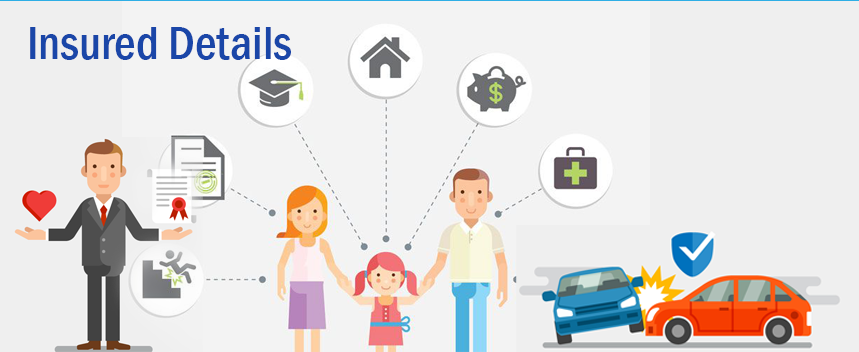
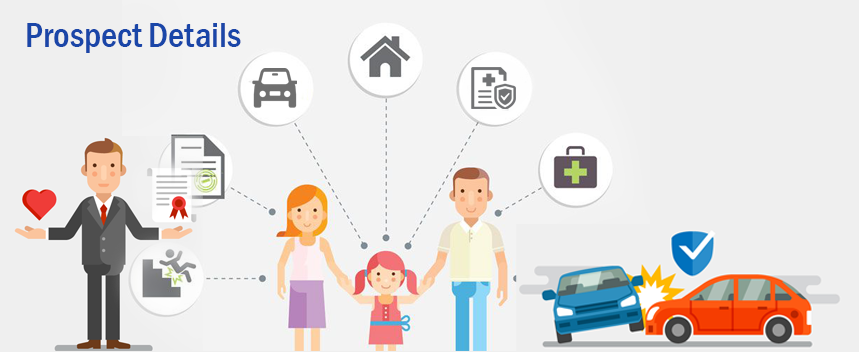
prefill and consemtic changes

diff --git a/src/app/component/landing/landing.component.html b/src/app/component/landing/landing.component.html
@@ -159,7 +159,10 @@
 
 
     <h1>Welcome to BlockSure</h1>
-    <h2>Your ONE-Stop shop for all your Insurance needs</h2>
+    <br/>
+    <br/>
+    <br/>
+    <!-- <h2>Your ONE-Stop shop for all your Insurance needs</h2> -->
     <!-- <h2>A secured blockchain based solution to ease client on-boarding <br>and keep track of the Insurance policies, payment and claim details<br> of an Insured across multiple Insurers</h2> -->
     <!-- <a href="#about" class="btn-get-started scrollto">Get Started</a> -->
   </div>
@@ -246,8 +249,8 @@
   <section id="termLife" class="doctors" *ngIf="basicInfoCaptured">
     <div class="container">
       <div class="section-title">
-        <h2>Multiple Insurers</h2>
-        <p>Insured applies for term life Insurance from below insurer</p>
+        <h2>Best Offers For You</h2>
+        <!-- <p>Insured applies for term life Insurance from below insurer</p> -->
       </div>
 
       <!--card 01 start-->
@@ -301,7 +304,7 @@
                     </h5>
 
                     <div class="col-12">
-                      <button class="btn btn-lg btn-primary" style="background: #423b72;" type="button" (click)="toKyc()">
+                      <button class="btn btn-lg btn-primary" style="background: #423b72;" type="button" (click)="toKyc(offer.orgName)">
                         <h6>
                          <span class="value-txt f-16" style="color: #ffffff">&#8377;{{offer.premium}} &#8680;</span>
                         </h6>
@@ -355,7 +358,7 @@
   aria-labelledby="exampleModalLabel"
   aria-hidden="true"
 >
-  <div class="modal-dialog" role="document">
+  <div class="modal-dialog modal-dialog-centered" role="document">
     <div class="modal-content">
       <div class="modal-header">
         <h5
@@ -411,7 +414,7 @@
 
           <div class="row mb-3" *ngIf="infoType == 'life'">
             <div class="col-lg-12">
-              <label for="firstname" class="f-14">D.O.B.</label>
+              <label for="firstname" class="f-14">DOB (MM/DD/YYYY)</label>
               <input
                 type="date"
                 name="dob"

diff --git a/src/app/component/landing/landing.component.ts b/src/app/component/landing/landing.component.ts
@@ -41,20 +41,20 @@ export class LandingComponent implements OnInit {
   constructor(private router: Router) {}
 
   ngOnInit() {
-    // this.test();
+    this.setUpSampleData();
   }
 
-  test() {
-    this.basicInfo = {
-      firstName: "Debasis",
-      lastName: "Das",
-      dob: "1990-12-13",
-      country: "India",
-      phone: "9830012345",
-      regNo: "WB12AM1593",
-      pincode: "700001",
-      yearBuilt: "2012",
-    };
+  setUpSampleData() {
+    // this.basicInfo = {
+    //   firstName: "Debasis",
+    //   lastName: "Das",
+    //   dob: "1990-12-13",
+    //   country: "India",
+    //   phone: "9830012345",
+    //   regNo: "WB12AM1593",
+    //   pincode: "700001",
+    //   yearBuilt: "2012",
+    // };
 
     this.offers = [
       {
@@ -62,30 +62,35 @@ export class LandingComponent implements OnInit {
         img: "AHAM-Shield.png",
         name: "AHAM Shield",
         premium: "3,264",
+        orgName: 'ahamshield'
       },
       {
         insurerId: 2,
         img: "HDCInsurance.png",
         name: "HDC Insurance",
         premium: "4,123",
+        orgName: 'hdcinsurance'
       },
       {
         insurerId: 3,
         img: "care-for-you.png",
         name: "Care For You",
         premium: "4,338",
+        orgName: "careforu"
       },
       {
         insurerId: 4,
         img: "auto-care-x.png",
         name: "Auto Care X",
         premium: "4,791",
+        orgName: "autocarex"
       },
       {
         insurerId: 5,
         img: "VitaSecure.png",
         name: "Vita Secure",
         premium: "5,264",
+        orgName: "vitasecure"
       },
     ];
   }
@@ -157,8 +162,9 @@ export class LandingComponent implements OnInit {
     }
   }
 
-  toKyc() {
+  toKyc(orgName) {
     sessionStorage.setItem("basicInfo", JSON.stringify(this.basicInfo));
+    sessionStorage.setItem("provider", orgName);
     this.router.navigateByUrl("/kyc");
   }
 }

diff --git a/src/app/component/dashboard/dashboard.component.html b/src/app/component/dashboard/dashboard.component.html
@@ -153,7 +153,7 @@
         <div class="col-12">
           <div class="card recent-sales overflow-auto">
             <div class="card-body">
-              <h5 class="card-title f-16">Insured Details</h5>
+              <h5 class="card-title f-16">Prospect Details</h5>
               <table
                 id="example"
                 class="table table-striped table-bordered"
@@ -177,7 +177,7 @@
                       <a href="#">{{ i + 1 }}</a>
                     </th>
                     <td>{{ insured.merchantDetails.name }} {{ insured.lastName }}</td>
-                    <td>{{ insured.merchantDetails.dob }}</td>
+                    <td>{{ insured.merchantDetails.dob | date}}</td>
                     <td>{{ insured.merchantDetails.city }}</td>
                     <td>Westbengal</td>
                     <td>
@@ -208,8 +208,12 @@
                         class="text-primary"
                         data-bs-toggle="modal"
                         data-bs-target="#basicModal"
+                        *ngIf="insured.verificationStatus.vkyc == 'Completed'"
                         >See Details</a
                       >
+                      <span class="link-disabled" *ngIf="['Failed', 'Pending'].includes(insured.verificationStatus.vkyc)">
+                        See Details
+                      </span>
                     </td>
                   </tr>
                 </tbody>

diff --git a/src/app/component/home/home.component.ts b/src/app/component/home/home.component.ts
@@ -655,8 +655,9 @@ export class HomeComponent implements OnInit {
   }
 
   copyBasicInfoFromSessionStorage() {
-    let item = sessionStorage.getItem('basicInfo');
+   
     try {
+      let item = sessionStorage.getItem('basicInfo');
       let basicInfo : any  = JSON.parse(item);
       this.merchantForm  = new FormGroup({
         name: new FormControl((basicInfo.firstName || '') + ' ' + (basicInfo.lastName || ''), [Validators.required]),
@@ -669,6 +670,13 @@ export class HomeComponent implements OnInit {
         postalCode: new FormControl((basicInfo.pincode || ''), [Validators.required]),
         city: new FormControl('', [Validators.required]),
       });
+
+      item = sessionStorage.getItem('provider');
+      
+      this.selectBankForm = new FormGroup({
+        bankName: new FormControl((item || ''), [Validators.required]),
+        panNumber: new FormControl('', [Validators.required]),
+      })
     } catch {
       console.error("invalid session info")
     }

diff --git a/src/app/component/dashboard/dashboard.component.ts b/src/app/component/dashboard/dashboard.component.ts
@@ -111,7 +111,7 @@ export class DashboardComponent implements OnInit {
       }
       else
       {
-      map[insured.verificationStatus.vkyc] = map[insured.verificationStatus.vkyc] + 1;
+        map[insured.verificationStatus.vkyc] = map[insured.verificationStatus.vkyc] + 1;
       }
     });
 
@@ -130,7 +130,7 @@ export class DashboardComponent implements OnInit {
         top: "5%",
         left: "center",
       },
-      color:['#70E917','#FBE600','#FF3232'],
+      color:['#198754','#FFC107','#DC3545'],
       series: [
         {
           name: "Access From",
@@ -154,6 +154,9 @@ export class DashboardComponent implements OnInit {
           data: stats,
         },
       ],
+      label: {
+        formatter:'{b}: ({d}%)'
+      }
     });
   }
 }

diff --git a/src/assets/theme/styles.css b/src/assets/theme/styles.css
@@ -488,7 +488,7 @@ h6 {
   font-size: 48px;
   font-weight: 700;
   line-height: 56px;
-  text-transform: uppercase;
+  /* text-transform: uppercase; */
   color: #2c4964;
 }
 
